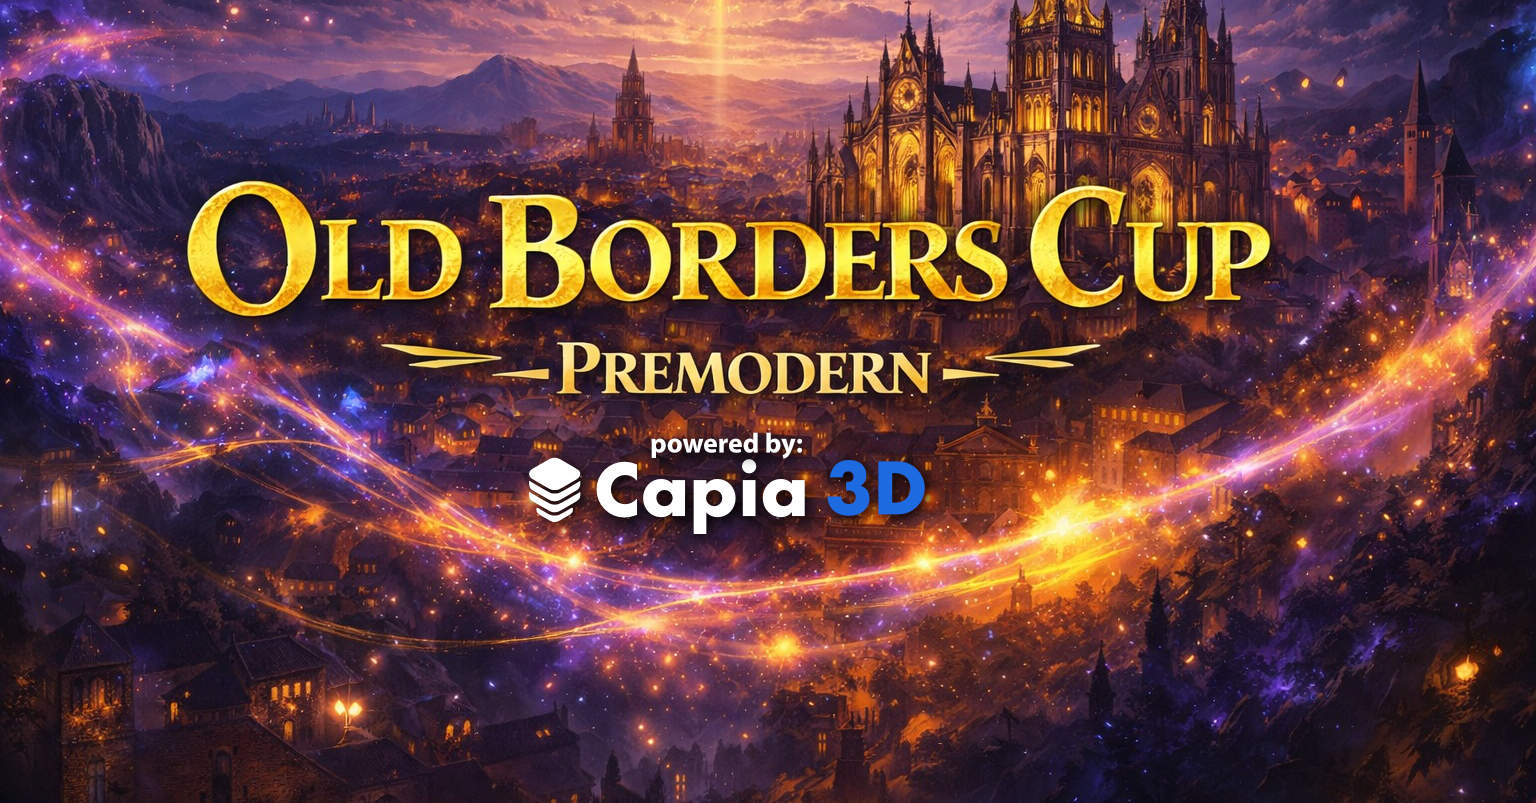
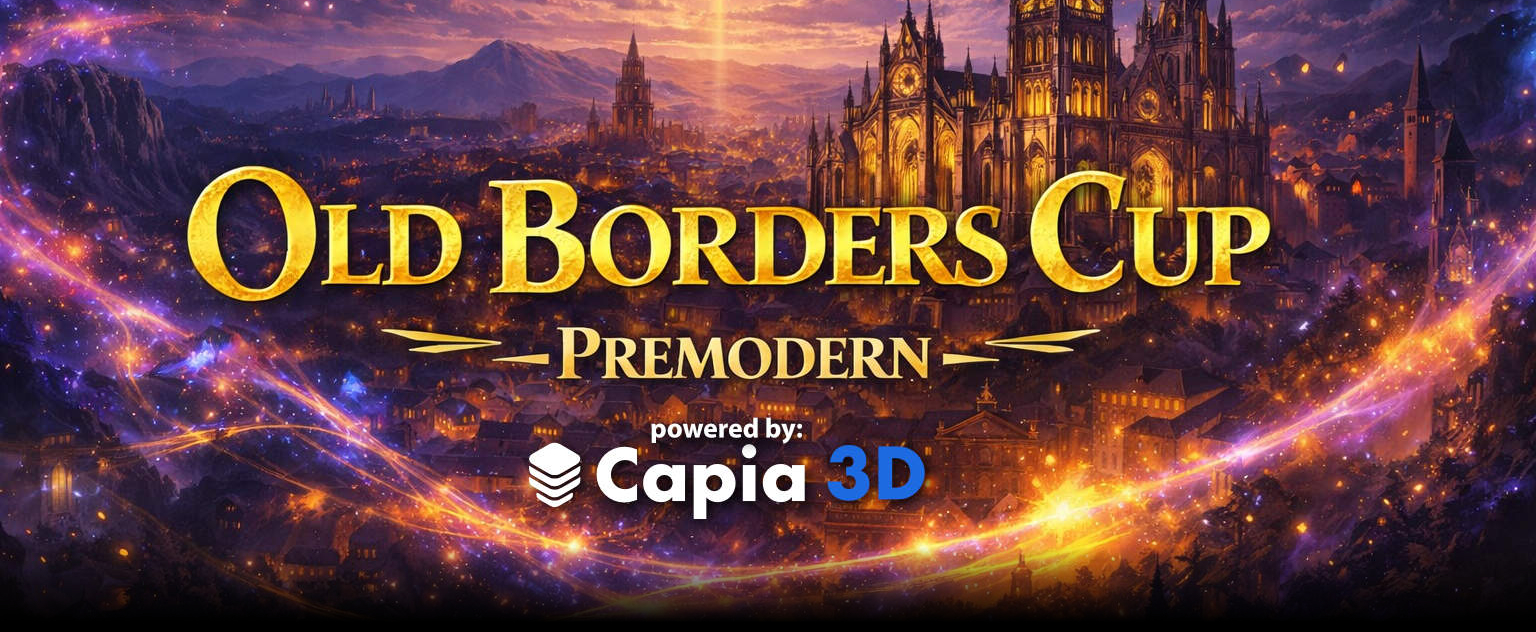
Ready

diff --git a/public/oldborderscup/index.html b/public/oldborderscup/index.html
@@ -47,7 +47,7 @@
       href="https://fonts.googleapis.com/css2?family=Manrope:wght@400;500;600;700;800&display=swap"
       rel="stylesheet"
     />
-    <link rel="stylesheet" href="./styles.css" />
+    <link rel="stylesheet" href="/oldborderscup/styles.css" />
   </head>
   <body>
     <a class="skip" href="#contenido">Saltar al contenido</a>
@@ -57,16 +57,19 @@
           <div class="hero__media" aria-label="Old Borders Cup">
             <img
               class="hero__logo"
-              src="./old_borders_cup_2_otra.jpg"
+              src="/oldborderscup/old_borders_cup_2_otra.jpg"
               alt="Old Borders Cup — Premodern"
               loading="eager"
               decoding="async"
             />
           </div>
-          <div class="hero__overlay" aria-label="Acciones">
-            <a class="btn btn--primary" href="#inscripcion">Inscribirme</a>
-            <a class="btn btn--ghost" href="#evento">Ver detalles</a>
-          </div>
+        </div>
+      </section>
+
+      <section class="band band--hero-actions" aria-label="Acciones">
+        <div class="hero-actions">
+          <a class="btn btn--primary" href="#inscripcion">Inscribirme</a>
+          <a class="btn btn--ghost" href="#evento">Ver detalles</a>
         </div>
       </section>
 
@@ -74,10 +77,12 @@
         <div class="wrap">
           <div class="facts facts--basic" aria-label="Información básica">
             <div class="fact2">
+              <img class="fact2__icon" src="/oldborderscup/calendar.png" alt="" aria-hidden="true" />
               <div class="fact2__v">21 feb 2026</div>
               <div class="fact2__k">Fecha del evento</div>
             </div>
             <div class="fact2">
+              <img class="fact2__icon" src="/oldborderscup/logo_nivel_13.png" alt="" aria-hidden="true" />
               <div class="fact2__v">Tienda Nivel 13</div>
               <div class="fact2__k">C. Monasterio, 5 · 24004, León</div>
               <div class="fact2__extra">
@@ -85,10 +90,11 @@
               </div>
             </div>
             <div class="fact2">
+              <img class="fact2__icon" src="/oldborderscup/door_opening.png" alt="" aria-hidden="true" />
               <div class="fact2__v">16:30 </div>
               <div class="fact2__k">Apertura de la tienda</div>
               <div class="fact2__extra">
-                <span class="muted">Check-in recomendado de 16:30 a 17:00</span>
+                <span class="muted">Primera comenzará a las 17:00</span>
               </div>
             </div>
           </div>
@@ -128,7 +134,11 @@
                 <li>Recibe confirmación de plaza.</li>
               </ol>
               <div class="cta cta--stack">
-                <a class="btn btn--primary btn--disabled" href="#" aria-disabled="true"
+                <a
+                  class="btn btn--primary"
+                  href="https://forms.gle/aWciffJkoCvw6anu8"
+                  target="_blank"
+                  rel="noopener"
                   >Formulario online</a
                 >
                 <a class="btn btn--ghost" href="#contacto">Contactar para más información</a>
@@ -141,7 +151,6 @@
       <section id="premios" class="band band--e">
         <div class="wrap">
           <h2>Premios</h2>
-          <div class="divider" role="presentation"></div>
           <div class="prizes" aria-label="Lista de premios">
             <div class="prize">
               <div class="prize__k">Todos los jugadores</div>
@@ -149,7 +158,7 @@
             </div>
             <div class="prize">
               <div class="prize__k">
-                <img class="prize__icon" src="./first_prize_icon.png" alt="" aria-hidden="true" />
+                <img class="prize__icon" src="/oldborderscup/first_prize_icon.png" alt="" aria-hidden="true" />
                 <span>1º puesto</span>
               </div>
               <div class="prize__v">
@@ -161,17 +170,17 @@
             </div>
             <div class="prize">
               <div class="prize__k">
-                <img class="prize__icon" src="./second_prize_icon.png" alt="" aria-hidden="true" />
+                <img class="prize__icon" src="/oldborderscup/second_prize_icon.png" alt="" aria-hidden="true" />
                 <span>2º puesto</span>
               </div>
-              <div class="prize__v">Playset Duress (Seventh Edition)</div>
+              <div class="prize__v">Playset Duress <i>(Seventh Edition)</i></div>
             </div>
             <div class="prize">
               <div class="prize__k">
-                <img class="prize__icon" src="./third_prize_icon.png" alt="" aria-hidden="true" />
+                <img class="prize__icon" src="/oldborderscup/third_prize_icon.png" alt="" aria-hidden="true" />
                 <span>3º puesto</span>
               </div>
-              <div class="prize__v">Playset Brainstorm (Ice Age Edition)</div>
+              <div class="prize__v">Playset Brainstorm <i>(Ice Age Edition)</i></div>
             </div>
             <div class="prize">
               <div class="prize__k">Sorteo (entre participantes)</div>
@@ -269,7 +278,7 @@
                   <h3>Powered by:</h3>
                   <img
                     class="partner__logo partner__logo--capia"
-                    src="./Capia_V2_logo_blanco_sin_fondo.png"
+                    src="/oldborderscup/Capia_V2_logo_blanco_sin_fondo.png"
                     alt="Capia 3D"
                     loading="lazy"
                     decoding="async"
@@ -279,7 +288,7 @@
                   <h3>Supported by:</h3>
                   <img
                     class="partner__logo partner__logo--nivel13"
-                    src="./logo_nivel_13.png"
+                    src="/oldborderscup/logo_nivel_13.png"
                     alt="Nivel 13"
                     loading="lazy"
                     decoding="async"

diff --git a/public/oldborderscup/styles.css b/public/oldborderscup/styles.css
@@ -8,9 +8,6 @@
   --ring: rgba(214, 180, 106, 0.28);
   --max: 1120px;
   --topbar-h: 64px;
-  /* Match current hero image ratio: 1536×803 */
-  --hero-w: 1536;
-  --hero-h: 803;
 }
 
 * {
@@ -107,9 +104,14 @@ a {
   padding: 76px 0;
 }
 
-.band--hero {
+.band.band--hero {
   padding: 0;
   background: #05060a;
+}
+
+.band.band--hero-actions {
+  padding: 10px 0 30px;
+  background: #000000;
 }
 
 .band--a {
@@ -169,8 +171,6 @@ a {
 .hero-bleed {
   position: relative;
   width: 100%;
-  aspect-ratio: var(--hero-w) / var(--hero-h);
-  height: min(calc(100vw * var(--hero-h) / var(--hero-w)), calc(100vh - var(--topbar-h)));
   overflow: hidden;
 }
 
@@ -202,36 +202,27 @@ a {
   display: grid;
   justify-items: center;
   width: 100%;
-  height: 100%;
 }
 
 .hero__logo {
   width: 100%;
-  height: 100%;
-  object-fit: contain;
-  object-position: center;
+  height: auto;
   display: block;
-  filter: none;
 }
 
-.hero__overlay {
-  position: absolute;
-  left: 0;
-  right: 0;
-  bottom: 0;
-  padding: 22px 24px 26px;
+.hero-actions {
+  padding: 0 24px;
   display: flex;
   justify-content: center;
   gap: 12px;
   flex-wrap: wrap;
-  background: linear-gradient(180deg, transparent 0%, rgba(5, 6, 10, 0.72) 55%, rgba(5, 6, 10, 0.92) 100%);
 }
 
-.hero__overlay .btn {
+.hero-actions .btn {
   backdrop-filter: blur(10px);
 }
 
-.hero__overlay .btn--ghost {
+.hero-actions .btn--ghost {
   background: rgba(255, 255, 255, 0.08);
 }
 
@@ -278,7 +269,7 @@ a {
 
 .btn--disabled {
   pointer-events: none;
-  opacity: 0.6;
+  opacity: 1;
 }
 
 .fine {
@@ -398,6 +389,15 @@ h3 {
 .facts--basic .fact2 {
   width: 100%;
   max-width: 420px;
+}
+
+.fact2__icon {
+  height: 26px;
+  width: auto;
+  display: block;
+  margin: 0 auto 10px;
+  opacity: 0.95;
+  filter: drop-shadow(0 10px 22px rgba(0, 0, 0, 0.45));
 }
 
 .facts--basic .fact2__extra {
@@ -533,6 +533,10 @@ h3 {
     grid-template-columns: 1fr;
   }
 
+  .facts--basic {
+    gap: 38px;
+  }
+
   .prize {
     grid-template-columns: 1fr;
   }
@@ -551,8 +555,12 @@ h3 {
     padding: 64px 0;
   }
 
-  .band--hero {
+  .band.band--hero {
     padding: 0;
+  }
+
+  .band.band--hero-actions {
+    padding: 10px 0 20px;
   }
 }
 
